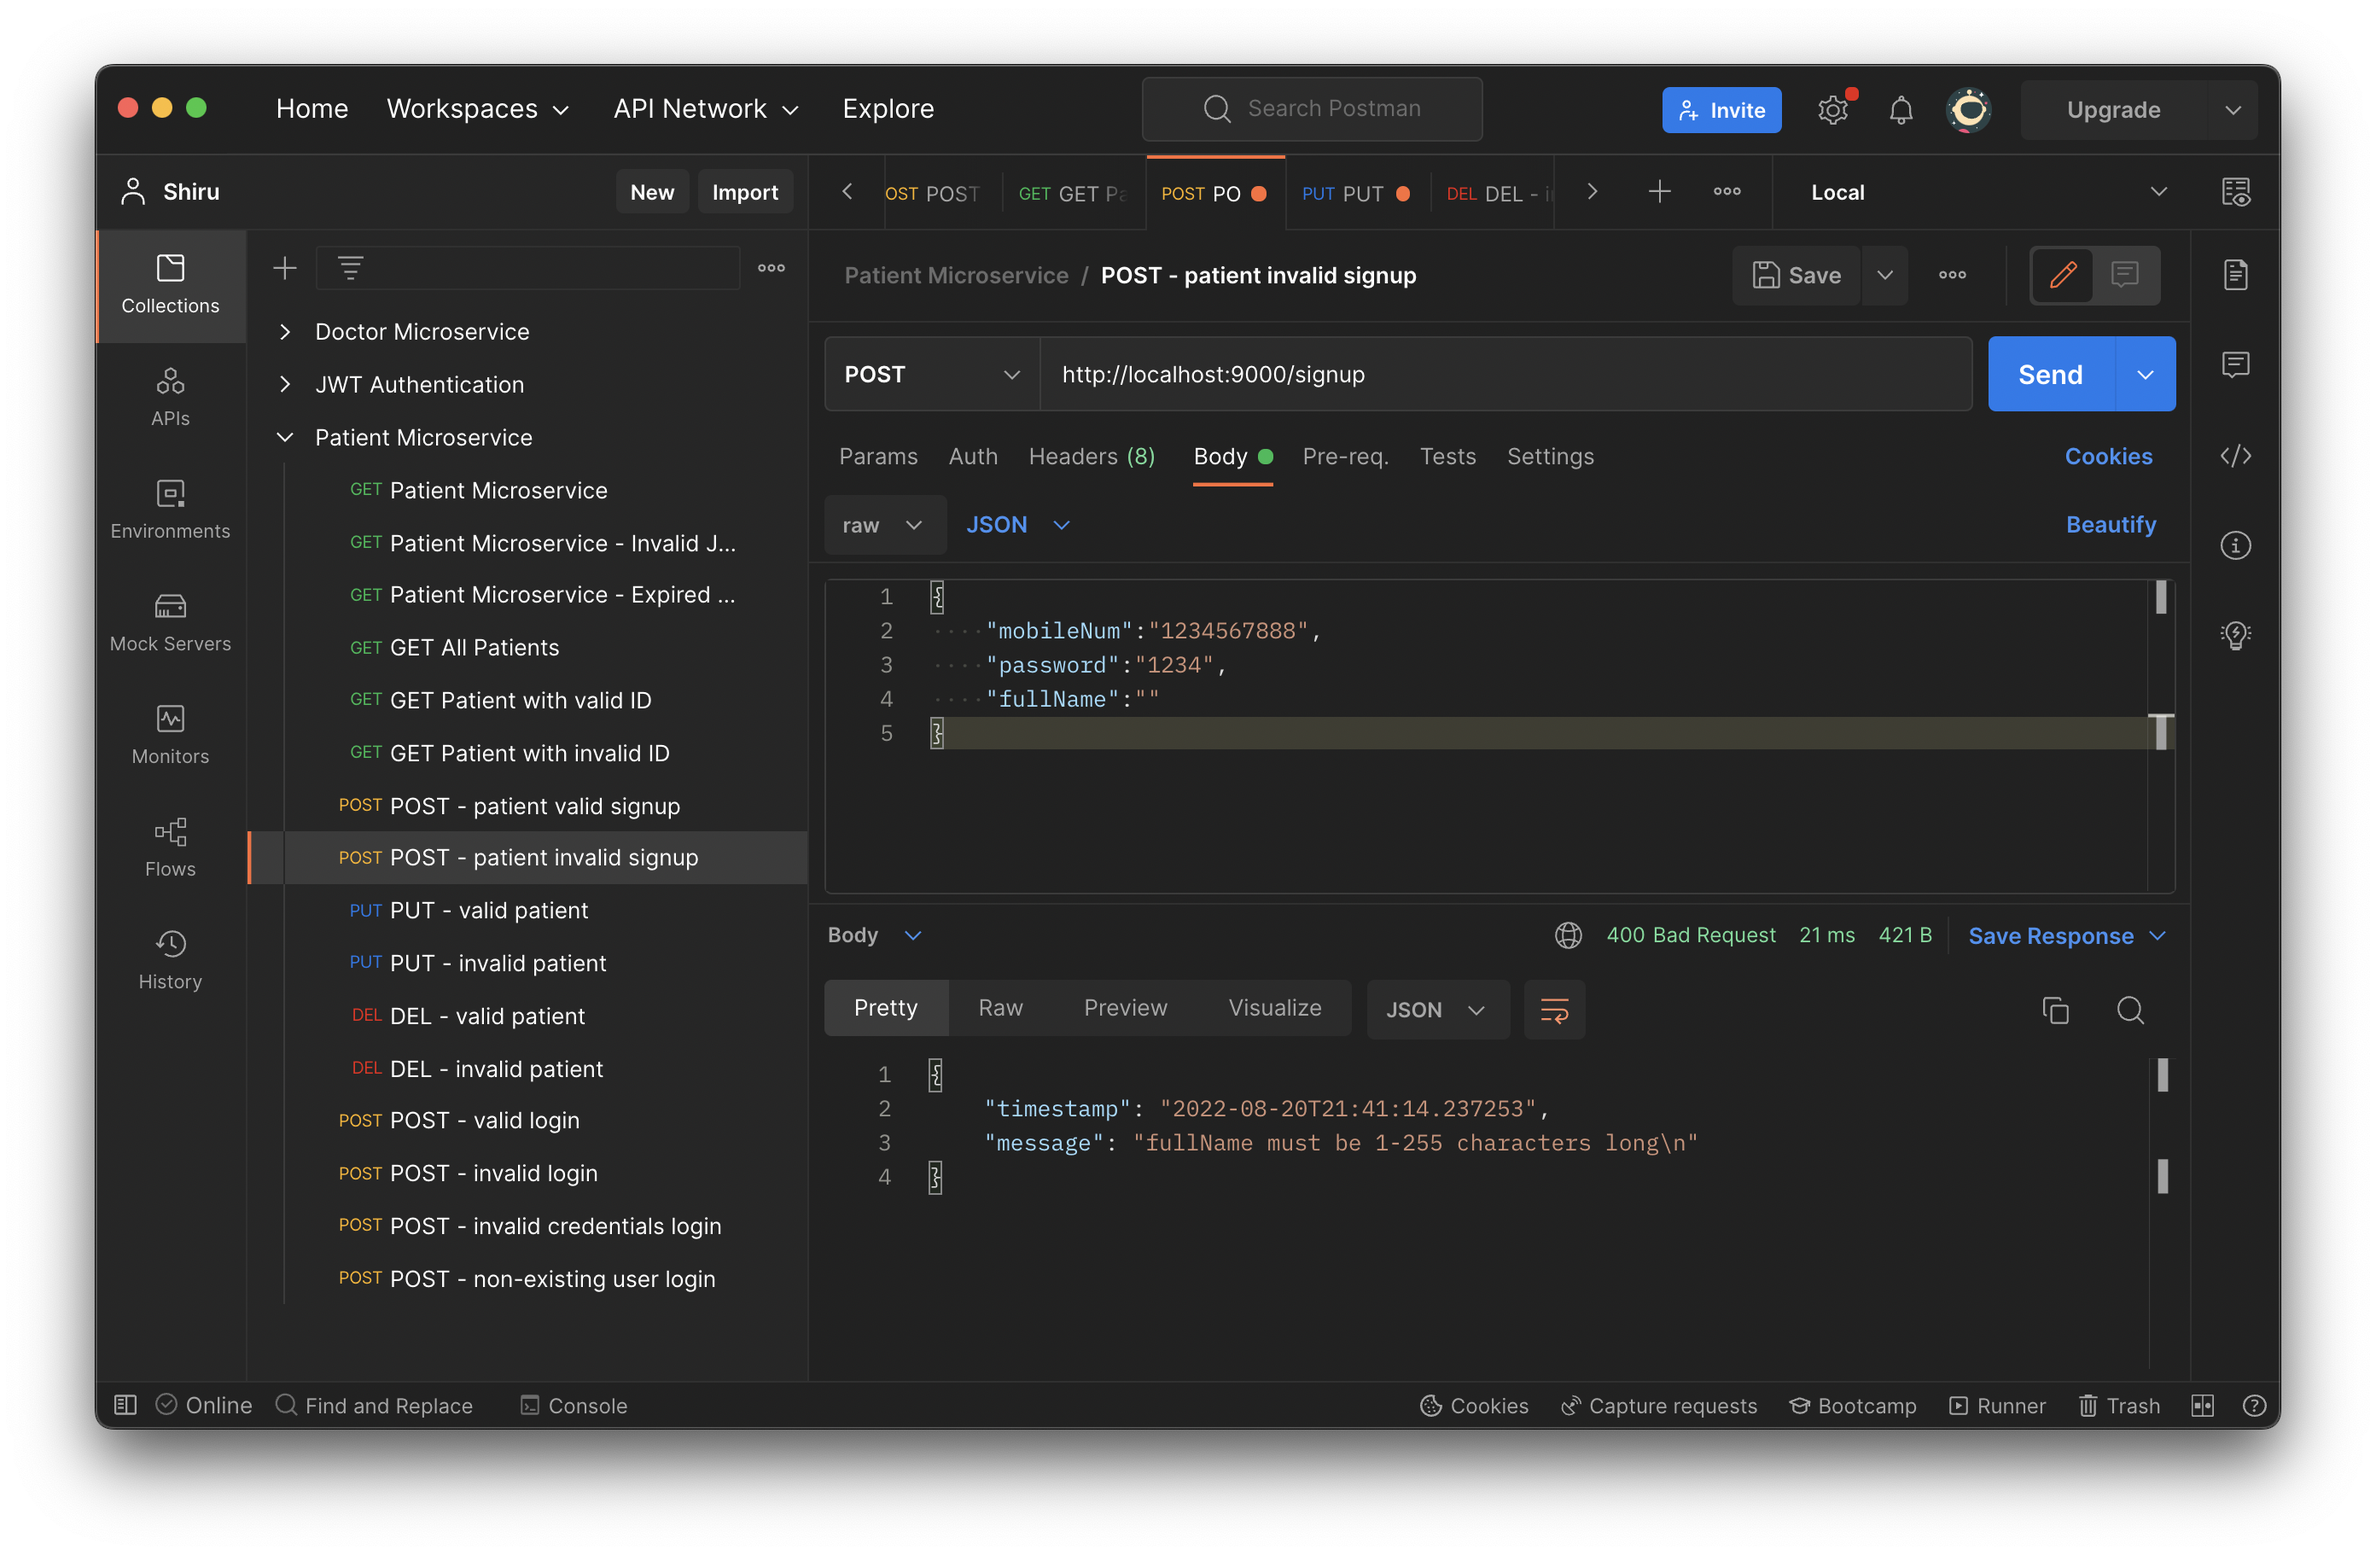
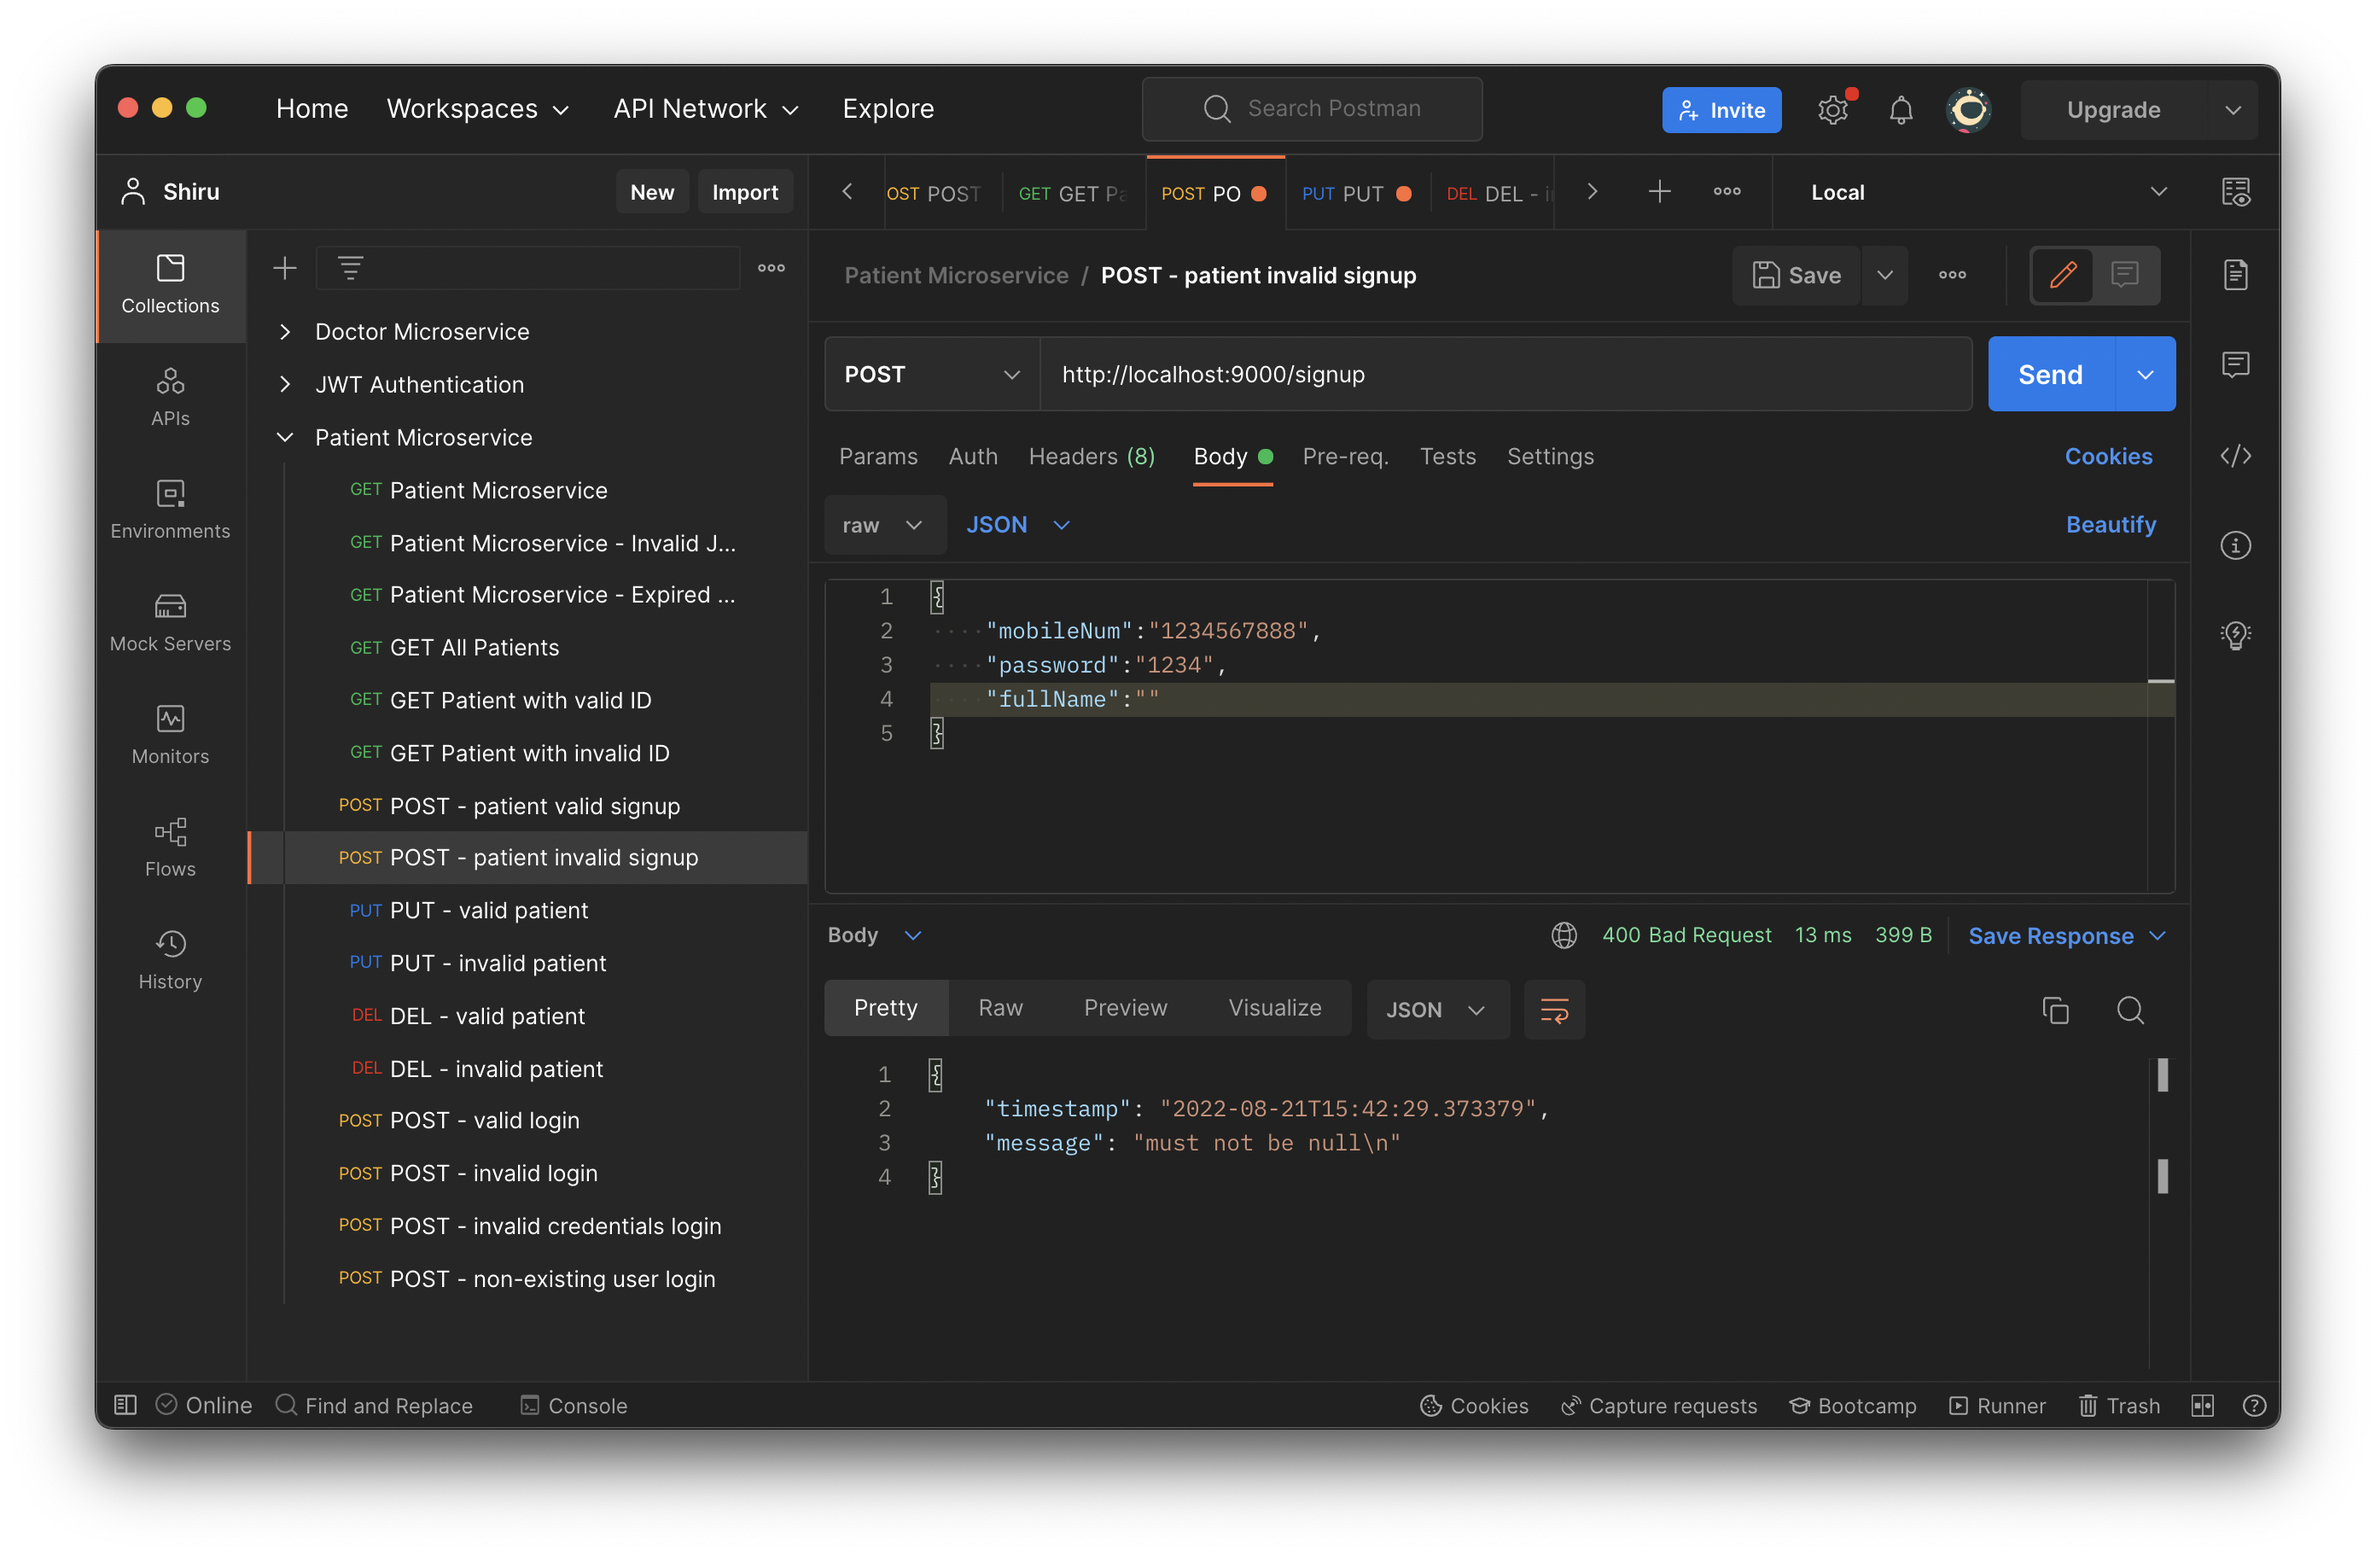
Patient MS - PatientRequest added + Delete Patient conflict removed

diff --git a/Patient-Service/src/main/java/get/sterlite/Authentication/controller/AuthenticationController.java b/Patient-Service/src/main/java/get/sterlite/Authentication/controller/AuthenticationController.java
@@ -1,13 +1,13 @@
 package get.sterlite.Authentication.controller;
 
 import javax.transaction.Transactional;
+import javax.validation.Valid;
 
 import org.springframework.beans.factory.annotation.Autowired;
 import org.springframework.http.HttpStatus;
 import org.springframework.http.ResponseEntity;
 import org.springframework.security.crypto.password.PasswordEncoder;
 import org.springframework.validation.BindingResult;
-import org.springframework.validation.annotation.Validated;
 import org.springframework.web.bind.annotation.RequestBody;
 import org.springframework.web.bind.annotation.RequestMapping;
 import org.springframework.web.bind.annotation.RequestMethod;
@@ -20,7 +20,7 @@ import get.sterlite.Authentication.service.UserService;
 import get.sterlite.Authentication.util.JwtUtil;
 import get.sterlite.Exception.InvalidInputsException;
 import get.sterlite.Exception.LoginException;
-import get.sterlite.model.Patient;
+import get.sterlite.model.PatientRequest;
 import get.sterlite.service.PatientService;
 
 @RestController
@@ -39,7 +39,7 @@ class AuthenticationController {
 	protected PasswordEncoder passwordEncoder;
 
 	@RequestMapping(value = "/login", method = RequestMethod.POST)
-	public ResponseEntity<?> loginAndCreateAuthenticationToken(@RequestBody @Validated LoginUser loginUser, BindingResult errors) throws Exception {
+	public ResponseEntity<?> loginAndCreateAuthenticationToken(@RequestBody @Valid LoginUser loginUser, BindingResult errors) throws Exception {
 		if (errors.hasErrors()) {
 			throw new InvalidInputsException(errors);
 		}
@@ -61,20 +61,19 @@ class AuthenticationController {
 	@Transactional
 	@RequestMapping(value = "/signup", method = RequestMethod.POST)
 	public ResponseEntity<?> signupAndCreateAuthenticationToken(
-			@RequestBody @Validated  Patient patient, BindingResult errors
+			@RequestBody @Valid PatientRequest patientRequest, BindingResult errors
 			 ) throws Exception {
-
-		System.out.println("patient : " + patient);
 
 		if (errors.hasErrors()) {
 			throw new InvalidInputsException(errors);
 		}
 
 		try {
-			userService.saveUser(patient);
-			patientService.savePatient(patient);
+
+			userService.saveUser(patientRequest.getPatient());
+			patientService.savePatient(patientRequest.getPatient());
 			final String jwt = jwtTokenUtil
-					.generateToken(patient.getMobileNum());
+					.generateToken(patientRequest.getPatient().getMobileNum());
 			return ResponseEntity.ok(new AuthenticationResponse(jwt));
 
 		} catch (Exception e) {

diff --git a/Patient-Service/src/test/java/get/sterlite/Authentication/controller/AuthenticationSignupControllerTest.java b/Patient-Service/src/test/java/get/sterlite/Authentication/controller/AuthenticationSignupControllerTest.java
@@ -23,6 +23,7 @@ import get.sterlite.Authentication.service.UserService;
 import get.sterlite.Authentication.util.JwtUtil;
 import get.sterlite.Exception.InvalidInputsException;
 import get.sterlite.model.Patient;
+import get.sterlite.model.PatientRequest;
 import get.sterlite.service.PatientService;
 
 @TestInstance(Lifecycle.PER_CLASS)
@@ -57,9 +58,12 @@ public class AuthenticationSignupControllerTest {
 
         Patient patient = new Patient("1234567888", "", "1234");
 
+        PatientRequest patientRequest = new PatientRequest();
+        patientRequest.setPatient(patient);
+
         when(errors.hasErrors()).thenReturn(true);
 
-        assertThrows(InvalidInputsException.class, () -> authenticationController.signupAndCreateAuthenticationToken(patient, errors));
+        assertThrows(InvalidInputsException.class, () -> authenticationController.signupAndCreateAuthenticationToken(patientRequest, errors));
     }
 
     @Test
@@ -68,12 +72,15 @@ public class AuthenticationSignupControllerTest {
 
         Patient patient = new Patient("1234567890", "blah blah", "1234");
 
+        PatientRequest patientRequest = new PatientRequest();
+        patientRequest.setPatient(patient);
+
         when(errors.hasErrors()).thenReturn(false);
 
         Mockito.doThrow(new RuntimeException("User already exist with mobileNum: " + patient.getMobileNum())).when(userService).saveUser(patient);
 
 
-        ResponseEntity<?> response =  authenticationController.signupAndCreateAuthenticationToken(patient, errors);
+        ResponseEntity<?> response =  authenticationController.signupAndCreateAuthenticationToken(patientRequest, errors);
 
         assertEquals(401, response.getStatusCodeValue());
         
@@ -88,13 +95,16 @@ public class AuthenticationSignupControllerTest {
 
         Patient patient = new Patient("1234567800", "1234", "blah blah");
 
+        PatientRequest patientRequest = new PatientRequest();
+        patientRequest.setPatient(patient);
+
         when(errors.hasErrors()).thenReturn(false);
         
         Mockito.doNothing().when(userService).saveUser(patient);
 
         Mockito.doNothing().when(patientService).savePatient(patient);
 
-        ResponseEntity<?> response =  authenticationController.signupAndCreateAuthenticationToken(patient,errors);
+        ResponseEntity<?> response =  authenticationController.signupAndCreateAuthenticationToken(patientRequest,errors);
 
         assertEquals(200, response.getStatusCodeValue());
         

diff --git a/Patient-Service/src/main/java/get/sterlite/service/PatientService.java b/Patient-Service/src/main/java/get/sterlite/service/PatientService.java
@@ -6,7 +6,10 @@ import java.util.Optional;
 import org.springframework.beans.factory.annotation.Autowired;
 import org.springframework.stereotype.Service;
 
+import get.sterlite.Authentication.service.UserService;
+import get.sterlite.Exception.InvalidInputsException;
 import get.sterlite.model.Patient;
+import get.sterlite.model.PatientRequest;
 import get.sterlite.model.PatientResponse;
 import get.sterlite.repository.PatientRepository;
 
@@ -15,6 +18,9 @@ public class PatientService {
 
     @Autowired
     PatientRepository patientRepository;
+
+    @Autowired
+    UserService userService;
 
     public void savePatient(Patient patient) {
 
@@ -45,20 +51,23 @@ public class PatientService {
 
     }
 
-    public PatientResponse updatePatientDetails(String mobileNum, Patient patient) {
+    public PatientResponse updatePatientDetails(String mobileNum, PatientRequest patientRequest) throws InvalidInputsException {
         if (!isPatientExist(mobileNum)) {
             return new PatientResponse("No patient found with Mobile Number : " + mobileNum, null);
         } else {
-            patient.setMobileNum(mobileNum);
-            patientRepository.save(patient);
-            return new PatientResponse("success", patient);
+            if (!mobileNum.equals(patientRequest.getPatient().getMobileNum())) {
+                throw new InvalidInputsException("Incorrect mobile no. for Patient ID : " + mobileNum);
+            }
+
+            patientRepository.save(patientRequest.getPatient());
+            return new PatientResponse("success", patientRequest.getPatient());
         }
     }
 
     public PatientResponse deletePatient(String id) {
         Optional<Patient> patient = patientRepository.findByMobileNum(id);
         if (patient.isPresent()) {
-            patientRepository.deleteById(id);
+            userService.deleteUser(id);
             return new PatientResponse("success", patient.get());
         } else {
             return new PatientResponse("No patient found with ID : " + id, null);

diff --git a/Patient-Service/src/main/java/get/sterlite/Controller/PatientsController.java b/Patient-Service/src/main/java/get/sterlite/Controller/PatientsController.java
@@ -12,7 +12,9 @@ import org.springframework.web.bind.annotation.RequestBody;
 import org.springframework.web.bind.annotation.RequestMapping;
 import org.springframework.web.bind.annotation.RestController;
 
+import get.sterlite.Exception.InvalidInputsException;
 import get.sterlite.model.Patient;
+import get.sterlite.model.PatientRequest;
 import get.sterlite.model.PatientResponse;
 import get.sterlite.service.PatientService;
 
@@ -45,8 +47,8 @@ public class PatientsController {
     }
 
     @PutMapping(value ="/patients/{id}",consumes = "application/json", produces = "application/json")
-    public PatientResponse updatePatient(@PathVariable("id") String id, @RequestBody Patient patient) {
-        return patientService.updatePatientDetails(id, patient);
+    public PatientResponse updatePatient(@PathVariable("id") String id, @RequestBody PatientRequest patientRequest) throws InvalidInputsException {
+        return patientService.updatePatientDetails(id, patientRequest);
     }
 
     @DeleteMapping("/patients/{id}")

diff --git a/Patient-Service/src/main/java/get/sterlite/model/PatientRequest.java b/Patient-Service/src/main/java/get/sterlite/model/PatientRequest.java
@@ -1,0 +1,25 @@
+package get.sterlite.model;
+
+import javax.validation.Valid;
+import javax.validation.constraints.NotNull;
+
+public class PatientRequest {
+
+    @NotNull
+    @Valid
+    private Patient patient;
+
+    public PatientRequest() {
+    }
+
+    public PatientRequest(Patient patient) {
+        this.patient = patient;
+    }
+
+    public Patient getPatient() {
+        return patient;
+    }
+    public void setPatient(Patient patient) {
+        this.patient = patient;
+    }
+}

diff --git a/Patient-Service/src/main/java/get/sterlite/Exception/InvalidInputsException.java b/Patient-Service/src/main/java/get/sterlite/Exception/InvalidInputsException.java
@@ -4,6 +4,11 @@ import org.springframework.validation.BindingResult;
 import org.springframework.validation.ObjectError;
 
 public class InvalidInputsException extends Exception {
+
+    public InvalidInputsException(String message) {
+        super(message);
+    }
+    
     public InvalidInputsException(BindingResult errors) {
         super(getErrorString(errors));
     }

diff --git a/Patient-Service/src/main/java/get/sterlite/Authentication/service/UserService.java b/Patient-Service/src/main/java/get/sterlite/Authentication/service/UserService.java
@@ -40,4 +40,9 @@ public class UserService {
             throw new RuntimeException("User already exist with mobileNum: " + patient.getMobileNum());
         }
     }
+
+    public void deleteUser(String id) {
+        LoginUser loginUser = loginUserRepository.findByMobileNum(id).get();
+        loginUserRepository.delete(loginUser);
+    }
 }
